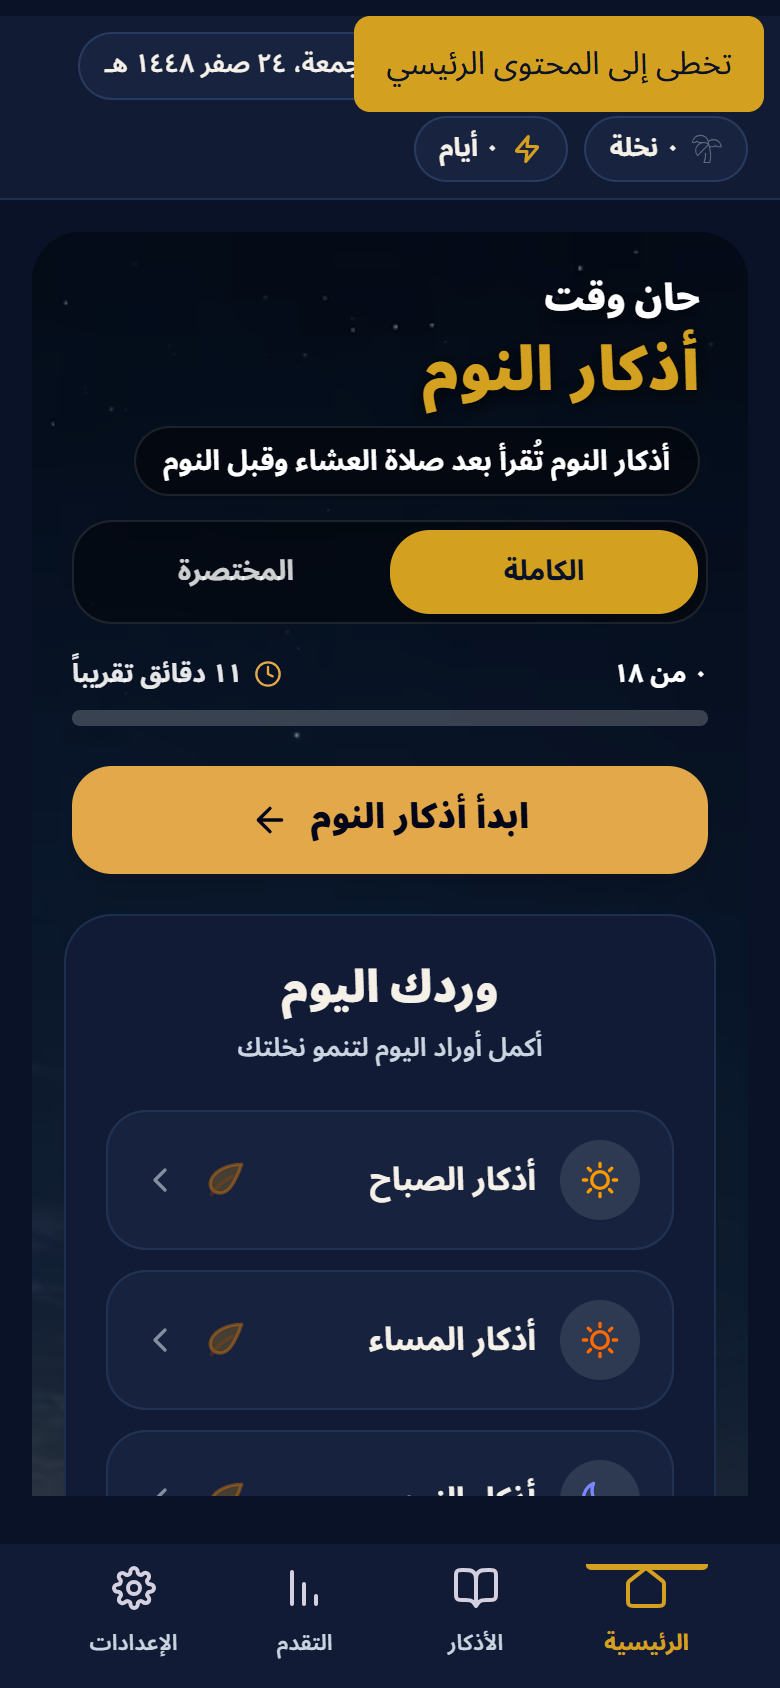
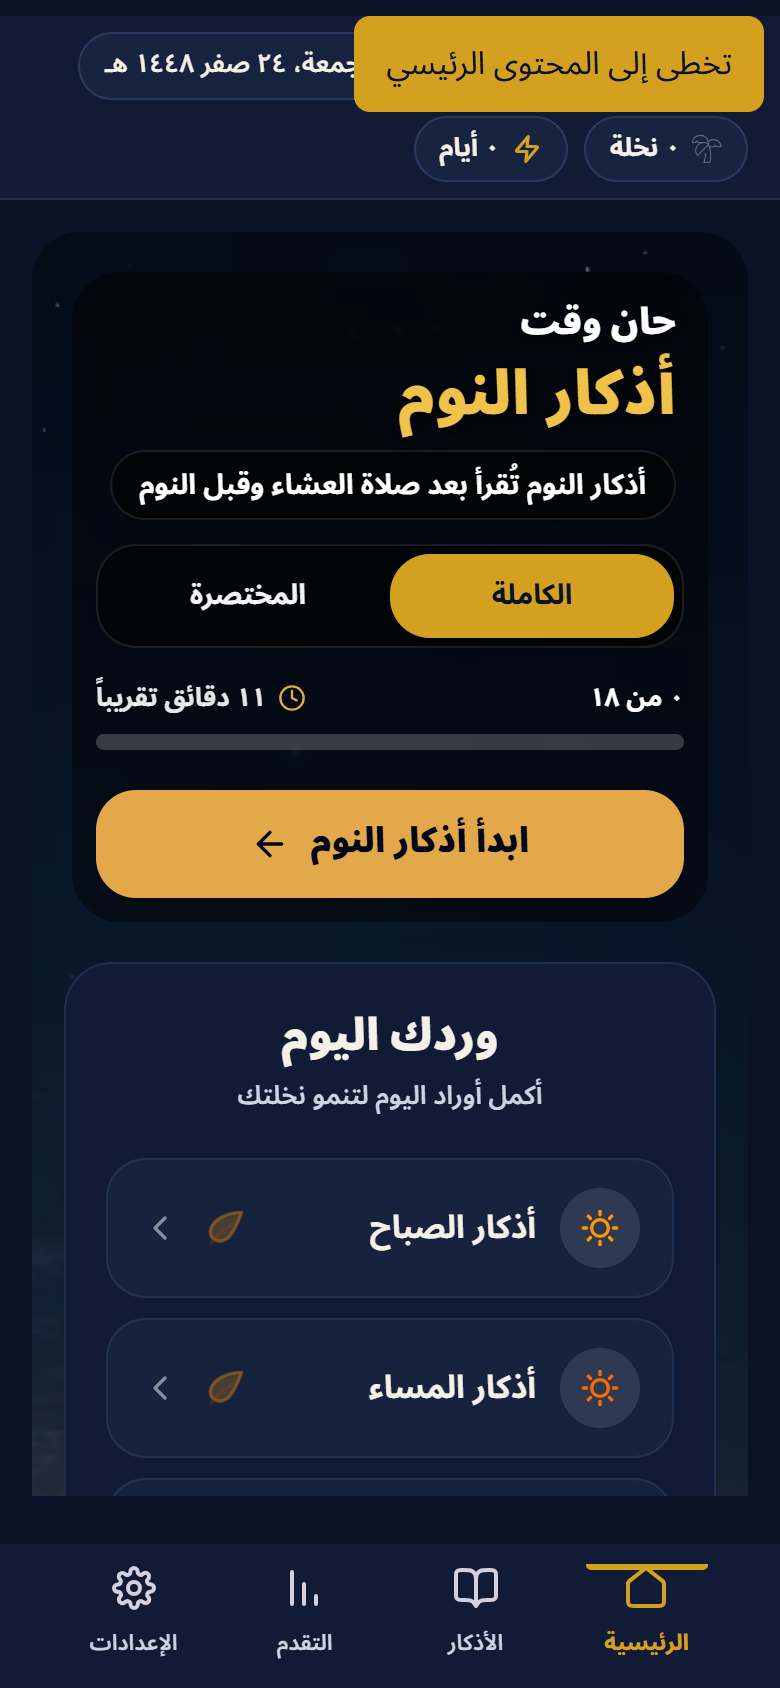
test(a11y): automate five manual-checklist rows; fix Light-theme hero contrast
All 11 rows of the Manual release record read Pending, but the table
conflated work needing a human with work a machine can prove. Adds
e2e/manual-checklist.spec.ts covering the five that do not need a person:
contrast across all five modes, responsive reflow at 320/390/tablet/
desktop, largest text and 200% zoom, prayer-time timezone/offset including
offline, and keyboard tab order with visible focus and no traps.

Six rows deliberately stay Pending with the reason recorded: screen reader,
safe areas, performance, media alternatives, RTL and poor connectivity. The
keyboard row is marked partial — automation proves focus moves and is
visible, not that the flow makes sense.

The automation immediately found a real defect, which is why it was worth
writing. Light theme failed contrast on Home: the hero's hardcoded
text-white measured 1.98:1 against a required 4.5:1, because the page scrim
fades to white in Light while the text assumed a dark backing. Two more
failed at 3.91:1 and 4.46:1.

Fixing it with a dark scrim behind the hero surfaced a fourth failure the
first three had masked: the gold heading used text-primary, which is a dark
gold (#835806) in Light, and dropped to 1.07:1 once the backing darkened.
Rather than hardcode a hex, this adds --on-media/-muted/-accent tokens.
Content over photography sits on a dark scrim in every theme, so it needs
light-on-dark values that deliberately do not follow --primary.

Recorded as DEC-035. 268 unit + 253 e2e passing.

diff --git a/e2e/manual-checklist.spec.ts b/e2e/manual-checklist.spec.ts
@@ -1,0 +1,179 @@
+/**
+ * Automated evidence for rows of the Manual release record in
+ * `docs/QUALITY_CHECKLIST.md` that do not actually require a human.
+ *
+ * These do NOT replace the rows that need a real screen reader, real device
+ * hardware, or human judgement — screen reader, safe areas, performance and
+ * media alternatives stay manual and stay Pending until someone does them.
+ */
+import AxeBuilder from "@axe-core/playwright";
+import { expect, test, type Page } from "@playwright/test";
+
+type Settings = Record<string, unknown>;
+
+async function seedAndOpen(page: Page, settings: Settings = {}) {
+  await page.addInitScript((overrides) => {
+    window.localStorage.setItem("azkarapp.onboarding-complete.v1", "true");
+    window.localStorage.setItem(
+      "azkarapp.state.v1",
+      JSON.stringify({
+        settings: {
+          language: "en",
+          themeMode: "midnight",
+          textSize: "medium",
+          highContrast: false,
+          boldText: false,
+          reduceMotion: true,
+          forceRtl: false,
+          colorBlindSupport: "none",
+          ...(overrides as object),
+        },
+        profile: { displayName: "Guest", lastPhoneNumber: "", isGuest: true },
+        completed: { morning: [], evening: [], before_sleep: [] },
+        sessions: [],
+      }),
+    );
+  }, settings);
+
+  await page.goto("/");
+  await expect(page.getByRole("status", { name: /Loading/i })).toHaveCount(0, { timeout: 10_000 });
+  await expect(page.getByRole("navigation").first()).toBeVisible({ timeout: 10_000 });
+}
+
+/** Horizontal overflow is the clearest machine-checkable symptom of clipping. */
+async function expectNoHorizontalOverflow(page: Page, context: string) {
+  const overflow = await page.evaluate(() => ({
+    scrollWidth: document.documentElement.scrollWidth,
+    clientWidth: document.documentElement.clientWidth,
+  }));
+  expect(overflow.scrollWidth, `${context}: page scrolls horizontally`).toBeLessThanOrEqual(overflow.clientWidth + 1);
+}
+
+// ─── Contrast ────────────────────────────────────────────────────────────────
+// Checklist row: "Light, dark, high-contrast, and color-blind modes pass a
+// contrast analyzer."
+const CONTRAST_MODES: ReadonlyArray<{ name: string; settings: Settings }> = [
+  { name: "midnight", settings: { themeMode: "midnight" } },
+  { name: "dark", settings: { themeMode: "dark" } },
+  { name: "light", settings: { themeMode: "light" } },
+  { name: "high contrast", settings: { themeMode: "light", highContrast: true } },
+  { name: "color-blind (deuteranopia)", settings: { themeMode: "midnight", colorBlindSupport: "deuteranopia" } },
+];
+
+for (const mode of CONTRAST_MODES) {
+  test(`contrast: ${mode.name} mode passes the analyzer on Home`, async ({ page }) => {
+    await seedAndOpen(page, mode.settings);
+    const results = await new AxeBuilder({ page }).withRules(["color-contrast"]).analyze();
+    expect(results.violations, `${mode.name}: contrast violations`).toEqual([]);
+  });
+}
+
+// ─── Responsive layout ───────────────────────────────────────────────────────
+// Checklist row: "320 px mobile, 390 px mobile, tablet, and desktop reflow
+// without clipping."
+const VIEWPORTS = [
+  { name: "320px mobile", width: 320, height: 720 },
+  { name: "390px mobile", width: 390, height: 844 },
+  { name: "tablet", width: 834, height: 1194 },
+  { name: "desktop", width: 1280, height: 900 },
+] as const;
+
+for (const viewport of VIEWPORTS) {
+  test(`responsive: ${viewport.name} reflows without clipping`, async ({ page }) => {
+    await page.setViewportSize({ width: viewport.width, height: viewport.height });
+    await seedAndOpen(page);
+
+    await expectNoHorizontalOverflow(page, `${viewport.name} Home`);
+    await expect(page.getByRole("navigation")).toHaveCount(1);
+
+    await page.getByTestId("nav-azkar").click();
+    await expect(page.getByTestId("category-card-morning")).toBeVisible();
+    await expectNoHorizontalOverflow(page, `${viewport.name} Library`);
+  });
+}
+
+// ─── Text resize ─────────────────────────────────────────────────────────────
+// Checklist row: "200% browser zoom and largest app text setting do not hide
+// content or actions."
+test("text resize: largest app text setting keeps content and actions reachable", async ({ page }) => {
+  await page.setViewportSize({ width: 390, height: 844 });
+  await seedAndOpen(page, { textSize: "large" });
+
+  await expectNoHorizontalOverflow(page, "large text Home");
+  await page.getByTestId("nav-azkar").click();
+  const card = page.getByTestId("category-card-morning");
+  await expect(card).toBeVisible();
+  await expectNoHorizontalOverflow(page, "large text Library");
+
+  // The card must remain operable, not merely present.
+  await card.click();
+  await expect(page.getByRole("button", { name: /Start Session|Continue/ }).first()).toBeVisible();
+});
+
+test("text resize: 200% zoom keeps primary navigation usable", async ({ page }) => {
+  // 200% zoom on a 1280px desktop presents as a 640px CSS viewport.
+  await page.setViewportSize({ width: 640, height: 450 });
+  await seedAndOpen(page);
+
+  await expectNoHorizontalOverflow(page, "200% zoom Home");
+  await expect(page.getByRole("navigation")).toHaveCount(1);
+  await page.getByTestId("nav-settings").click();
+  await expect(page.getByRole("heading", { name: "Settings", exact: true })).toBeVisible();
+  await expectNoHorizontalOverflow(page, "200% zoom Settings");
+});
+
+// ─── Prayer time and DST ─────────────────────────────────────────────────────
+// Checklist row: "Effective timezone/offset match the detected location; online
+// and offline results use the selected method."
+test("prayer times: effective timezone and offset are surfaced and survive going offline", async ({ page }) => {
+  await seedAndOpen(page);
+  await page.getByTestId("nav-settings").click();
+  await page.getByRole("button", { name: /Prayer Times & Location/ }).click();
+
+  const status = page.getByTestId("daylight-saving-status");
+  await expect(status).toBeVisible();
+  await expect(status).toContainText("Africa/Cairo");
+  await expect(status).toContainText(/UTC\+0[23]:00/);
+  const onlineText = await status.innerText();
+
+  // Astronomical calculation must not depend on the network.
+  await page.context().setOffline(true);
+  await page.evaluate(() => window.dispatchEvent(new Event("offline")));
+  await expect(status).toContainText("Africa/Cairo");
+  expect(await status.innerText(), "offline timings drifted from online").toBe(onlineText);
+  await page.context().setOffline(false);
+});
+
+// ─── Keyboard-only core flow ─────────────────────────────────────────────────
+// Checklist row: "Logical order, visible focus, no traps."
+test("keyboard: the core flow is reachable with a visible focus indicator and no traps", async ({ page }) => {
+  await seedAndOpen(page);
+
+  // Every element reached by Tab must show a focus indicator, not rely on the
+  // browser default being suppressed somewhere.
+  const seen = new Set<string>();
+  for (let i = 0; i < 25; i += 1) {
+    await page.keyboard.press("Tab");
+    const info = await page.evaluate(() => {
+      const el = document.activeElement as HTMLElement | null;
+      if (!el || el === document.body) return null;
+      const style = getComputedStyle(el);
+      const hasOutline = style.outlineStyle !== "none" && parseFloat(style.outlineWidth || "0") > 0;
+      const hasShadowRing = style.boxShadow !== "none";
+      return {
+        key: `${el.tagName}:${el.getAttribute("data-testid") ?? el.textContent?.trim().slice(0, 24) ?? ""}`,
+        visible: hasOutline || hasShadowRing,
+      };
+    });
+    if (!info) continue;
+    seen.add(info.key);
+    expect(info.visible, `no visible focus indicator on ${info.key}`).toBe(true);
+  }
+  expect(seen.size, "Tab did not move across distinct controls").toBeGreaterThan(3);
+
+  // Not a trap: the library is reachable and Escape does not strand focus.
+  await page.getByTestId("nav-azkar").click();
+  await expect(page.getByTestId("category-card-morning")).toBeVisible();
+  await page.keyboard.press("Escape");
+  await expect(page.getByRole("navigation")).toBeVisible();
+});

diff --git a/src/app/screens/HomeScreen.tsx b/src/app/screens/HomeScreen.tsx
@@ -344,18 +344,22 @@ export function HomeScreen({
                   aria-labelledby="current-zikr-heading"
                   className="lg:col-span-3 flex flex-col justify-between p-1 md:p-2 transition-all"
                 >
-                  <div className="flex flex-col gap-3 text-start">
+                  {/* The hero sits on a photo that fades to white in light mode,
+                      so its white text needs its own dark backing rather than
+                      relying on the page scrim. Without this, "Time for"
+                      measured 1.98:1 against a required 4.5:1. */}
+                  <div className="flex flex-col gap-3 rounded-3xl bg-black/45 p-3 text-start backdrop-blur-[2px] md:p-4">
                     {/* Hero Text & Category Header */}
                     <div className="flex w-full flex-col items-start gap-1 px-1">
                       <p
-                        className="text-[1.125rem] font-black text-white drop-shadow-[0_2px_4px_rgba(0,0,0,0.7)]"
+                        className="text-[1.125rem] font-black text-on-media drop-shadow-[0_2px_4px_rgba(0,0,0,0.7)]"
                         dir="auto"
                       >
                         {isArabic ? "حان وقت" : "Time for"}
                       </p>
                       <h2
                         id="current-zikr-heading"
-                        className="text-3xl md:text-4xl font-black text-primary tracking-wide drop-shadow-[0_2px_4px_rgba(0,0,0,0.8)]"
+                        className="text-3xl md:text-4xl font-black text-on-media-accent tracking-wide drop-shadow-[0_2px_4px_rgba(0,0,0,0.8)]"
                         dir="auto"
                         style={{ lineHeight: "1.25" }}
                       >
@@ -379,10 +383,10 @@ export function HomeScreen({
                       }}
                       direction={direction}
                       aria-label={isArabic ? "وضع الورد" : "Routine mode"}
-                      className="flex min-h-[44px] w-full items-center rounded-2xl bg-black/40 p-1 border border-white/15 dark:border-white/10"
+                      className="flex min-h-[44px] w-full items-center rounded-2xl bg-black/55 p-1 border border-white/20 dark:border-white/10"
                       itemClassName={(selected) =>
                         `flex min-h-[42px] flex-1 items-center justify-center rounded-2xl transition-all duration-200 text-[0.875rem] font-bold focus-visible:outline-none focus-visible:ring-[3px] focus-visible:ring-ring ${
-                          selected ? "bg-primary text-primary-foreground shadow-md" : "text-white/80 hover:text-white"
+                          selected ? "bg-primary text-primary-foreground shadow-md" : "text-white/95 hover:text-white"
                         }`
                       }
                       options={[
@@ -395,14 +399,14 @@ export function HomeScreen({
                     {totalCount > 0 && (
                       <div className="flex flex-col gap-2 w-full mt-1">
                         <div
-                          className="flex w-full items-center justify-between text-[0.8125rem] font-bold text-foreground dark:text-white"
+                          className="flex w-full items-center justify-between text-[0.8125rem] font-bold text-on-media"
                           dir="auto"
                         >
                           <span>
                             {formatNumerals(doneCount, language)} {isArabic ? "من" : "of"}{" "}
                             {formatNumerals(totalCount, language)}
                           </span>
-                          <div className="flex items-center gap-1.5 text-muted-foreground dark:text-white/90">
+                          <div className="flex items-center gap-1.5 text-on-media-muted">
                             <Clock className="h-[14px] w-[14px] text-[#e2a84a]" />
                             <span>
                               {isArabic

diff --git a/src/styles/theme.css b/src/styles/theme.css
@@ -23,6 +23,12 @@
   --popover-foreground: #f2f2ea;
   --primary: #d7a528;
   --primary-foreground: #000000;
+  /* Content sitting on the photographic hero scrim. That scrim is dark in
+     every theme, so these stay light-on-dark and must not follow --primary,
+     which is a dark gold (#835806) in Light and fails contrast there. */
+  --on-media: #ffffff;
+  --on-media-muted: rgba(255, 255, 255, 0.9);
+  --on-media-accent: #f0c14b;
   --secondary: #c5f2e5;
   --secondary-foreground: #081026;
   --muted: #0a0a0a;
@@ -310,6 +316,9 @@ textarea {
   --color-popover: var(--popover);
   --color-popover-foreground: var(--popover-foreground);
   --color-primary: var(--primary);
+  --color-on-media: var(--on-media);
+  --color-on-media-muted: var(--on-media-muted);
+  --color-on-media-accent: var(--on-media-accent);
   --color-primary-foreground: var(--primary-foreground);
   --color-secondary: var(--secondary);
   --color-secondary-foreground: var(--secondary-foreground);

diff --git a/docs/QUALITY_CHECKLIST.md b/docs/QUALITY_CHECKLIST.md
@@ -53,18 +53,31 @@ Current per-file production budgets are 450 KiB JavaScript, 120 KiB CSS, and 1 M
 
 Automation cannot prove the following. Complete and date this table for a release candidate; attach screenshots or issue links where useful.
 
-| Test                    | Required result                                                                                              | Date / tester / evidence |
-| ----------------------- | ------------------------------------------------------------------------------------------------------------ | ------------------------ |
-| Keyboard-only core flow | Logical order, visible focus, no traps; onboarding → category → reader → completion → settings               | Pending                  |
-| Screen reader           | VoiceOver, TalkBack, or NVDA completes the same core flow with understandable names and announcements        | Pending                  |
-| Text resize             | 200% browser zoom and largest app text setting do not hide content or actions                                | Pending                  |
-| Contrast                | Light, dark, high-contrast, and color-blind modes pass a contrast analyzer                                   | Pending                  |
-| Responsive layout       | 320 px mobile, 390 px mobile, tablet, and desktop reflow without clipping                                    | Pending                  |
-| RTL                     | Arabic onboarding, navigation, category, reader, counter, and settings have correct order and icon direction | Pending                  |
-| Safe areas              | iOS notch/home indicator and Android cutout do not cover controls                                            | Pending                  |
-| Poor connectivity       | Offline banner appears; local reading/progress works; sync recovers after reconnect                          | Pending                  |
-| Prayer time and DST     | Effective timezone/offset match the detected location; online and offline results use the selected method    | Pending                  |
-| Performance             | Record cold load, interaction responsiveness, and React Profiler evidence on a representative mobile device  | Pending                  |
-| Media access            | Audio alternatives/transcripts and image descriptions are correct wherever media is introduced               | Pending                  |
+| Test                    | Required result                                                                                              | Date / tester / evidence                                                                             |
+| ----------------------- | ------------------------------------------------------------------------------------------------------------ | ---------------------------------------------------------------------------------------------------- |
+| Keyboard-only core flow | Logical order, visible focus, no traps; onboarding → category → reader → completion → settings               | 2026-08-07 / automated / `e2e/manual-checklist.spec.ts` (partial: tab order, visible focus, no trap) |
+| Screen reader           | VoiceOver, TalkBack, or NVDA completes the same core flow with understandable names and announcements        | Pending                                                                                              |
+| Text resize             | 200% browser zoom and largest app text setting do not hide content or actions                                | 2026-08-07 / automated / `e2e/manual-checklist.spec.ts`                                              |
+| Contrast                | Light, dark, high-contrast, and color-blind modes pass a contrast analyzer                                   | 2026-08-07 / automated / `e2e/manual-checklist.spec.ts` (all 5 modes)                                |
+| Responsive layout       | 320 px mobile, 390 px mobile, tablet, and desktop reflow without clipping                                    | 2026-08-07 / automated / `e2e/manual-checklist.spec.ts`                                              |
+| RTL                     | Arabic onboarding, navigation, category, reader, counter, and settings have correct order and icon direction | Pending                                                                                              |
+| Safe areas              | iOS notch/home indicator and Android cutout do not cover controls                                            | Pending                                                                                              |
+| Poor connectivity       | Offline banner appears; local reading/progress works; sync recovers after reconnect                          | Pending                                                                                              |
+| Prayer time and DST     | Effective timezone/offset match the detected location; online and offline results use the selected method    | 2026-08-07 / automated / `e2e/manual-checklist.spec.ts`                                              |
+| Performance             | Record cold load, interaction responsiveness, and React Profiler evidence on a representative mobile device  | Pending                                                                                              |
+| Media access            | Audio alternatives/transcripts and image descriptions are correct wherever media is introduced               | Pending                                                                                              |
 
 Until every applicable row has dated evidence, the project must not claim complete manual checklist compliance.
+
+### Automated vs. manual rows
+
+Five rows above are now covered by `e2e/manual-checklist.spec.ts`, which runs in CI on every push. They are dated as automated evidence.
+
+The remaining rows are **not** automatable and stay `Pending` until a person does them:
+
+- **Screen reader** — needs a real VoiceOver/NVDA/TalkBack session. Automated keyboard coverage is not a substitute; it proves focus moves, not that announcements make sense.
+- **Safe areas** — needs real notch/cutout hardware.
+- **Performance** — needs a representative mobile device and profiler traces.
+- **Media access** — needs human review of alternatives and descriptions.
+
+The keyboard row is marked partial for the same reason: the automation proves tab order, focus visibility and absence of traps, but a human still has to confirm the flow is _sensible_.

diff --git a/docs/agent/DECISION_LOG.md b/docs/agent/DECISION_LOG.md
@@ -642,3 +642,19 @@ Record user-approved product, design and architectural decisions here. Do not er
 - **Tests/evidence required:** New e2e test completes a zikr, confirms it reaches stored progress, steps back, resets, and asserts the entry is gone from `localStorage`. Verified by removing the fix and confirming the test fails. Full `pnpm check` + `pnpm test:e2e` (268 unit, 214 e2e).
 - **Process note:** the first version of this test was wrong and passed against unfixed code — it asserted on `completed.morning` while the fixture opens `waking_up`, so it was checking a permanently empty array. It was caught by the revert check, not by it passing. A test that has never been seen to fail is not evidence.
 - **Supersedes:** The "flagged, not fixed" entry in DEC-033.
+
+---
+
+## DEC-035 — Automate the machine-checkable manual-checklist rows; fix Light-theme hero contrast
+
+- **Date:** 2026-08-07
+- **Status:** Approved
+- **Owner:** User
+- **Related phase:** Cross-cutting (feeds Phases 11–12)
+- **Context:** All 11 rows of the Manual release record in `docs/QUALITY_CHECKLIST.md` read `Pending`. The table conflated work that genuinely needs a human with work a machine can prove.
+- **Decision:** Added `e2e/manual-checklist.spec.ts` covering the five rows that do not need a person — contrast across all five modes, responsive reflow at 320/390/tablet/desktop, largest text setting and 200% zoom, prayer-time timezone/offset including offline, and keyboard tab order with visible focus and no traps. Those rows are now dated as automated evidence and run in CI on every push.
+- **Six rows deliberately remain `Pending`,** with the reason recorded next to them: screen reader (needs a real VoiceOver/NVDA/TalkBack session), safe areas (needs notch/cutout hardware), performance (needs a representative device), media alternatives (needs human review), RTL and poor connectivity (partially covered elsewhere but not to the row's full bar). The keyboard row is explicitly marked **partial** — automation proves focus moves and is visible, not that the flow makes sense.
+- **The automation immediately found a real defect,** which is the point of writing it: **Light theme failed contrast on Home.** The hero's hardcoded `text-white` measured **1.98:1** against a required 4.5:1, because the page scrim fades to _white_ in Light while the text assumed a dark backing. Two further failures at 3.91:1 and 4.46:1 on the routine selector and estimate row.
+- **Fix and its consequence:** a dark scrim now sits behind the hero column in every theme. That surfaced a fourth failure the first three had masked — the gold heading used `text-primary`, which is a **dark** gold (`#835806`) in Light and dropped to 1.07:1 once the backing darkened. Rather than hardcode a hex, added `--on-media` / `--on-media-muted` / `--on-media-accent` tokens: content over photography sits on a dark scrim in every theme, so it needs light-on-dark values that deliberately do **not** follow `--primary`.
+- **Tests/evidence required:** 13 tests in the new spec. Contrast is asserted per mode with a named failure message so a regression identifies the mode. Full `pnpm check` + `pnpm test:e2e` (268 unit, 253 e2e).
+- **Supersedes:** None
